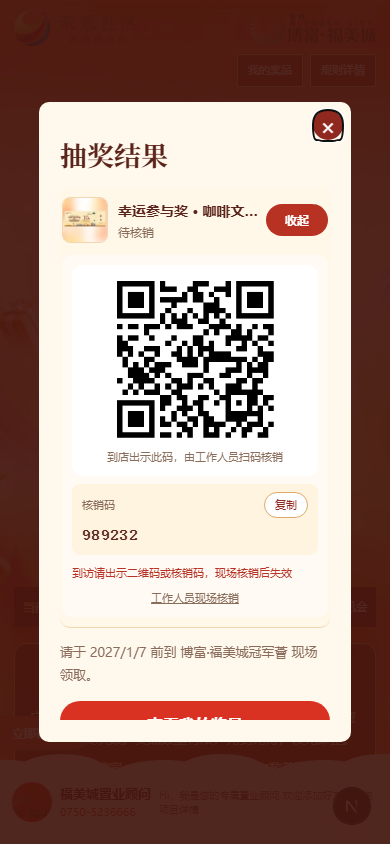
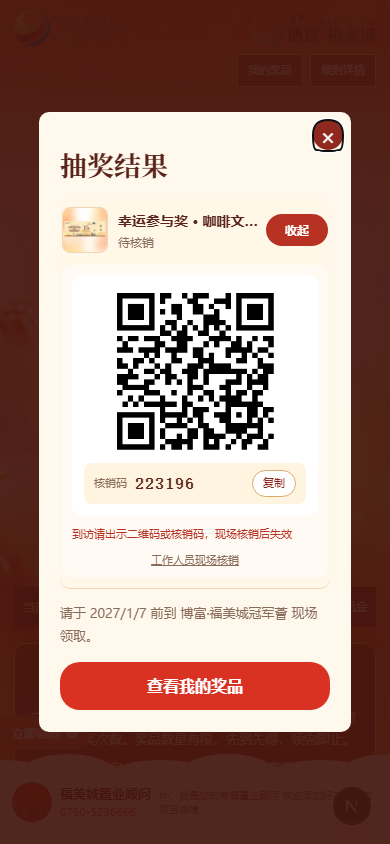
H5 核销展开区布局调整：核销码与二维码同卡，去掉二维码下方提示文字。
- RedeemQrCard 支持 children，核销码块移入二维码所在白色卡片
- 删除「到店出示此码，由工作人员扫码核销」文案
- 核销码标签、数值与复制按钮改为单行显示
- 同步替换我的奖品与抽奖结果两张文档截图

Changed region(s): [[0.0923, 0.2156, 0.8923, 0.8934], [0.0923, 0.1232, 0.9231, 0.3081]]

diff --git a/src/components/activity/RedeemQrCard.tsx b/src/components/activity/RedeemQrCard.tsx
@@ -1,16 +1,18 @@
 "use client";
 
-import { useEffect, useState } from "react";
+import { useEffect, useState, type ReactNode } from "react";
 import QRCode from "qrcode";
 import { buildRedeemAdminUrl } from "@/lib/redeem-code";
 
-/** 待核销二维码面板；展开由外层「二维码」按钮控制 */
+/** 待核销二维码面板；展开由外层「去核销」按钮控制 */
 export default function RedeemQrCard({
   code,
   open,
+  children,
 }: {
   code: string;
   open: boolean;
+  children?: ReactNode;
 }) {
   const [dataUrl, setDataUrl] = useState("");
   const [failed, setFailed] = useState(false);
@@ -44,12 +46,10 @@ export default function RedeemQrCard({
       ) : !dataUrl ? (
         <p className="redeem-tip">核销二维码生成中…</p>
       ) : (
-        <>
-          {/* eslint-disable-next-line @next/next/no-img-element */}
-          <img src={dataUrl} alt="核销二维码" />
-          <small>到店出示此码，由工作人员扫码核销</small>
-        </>
+        // eslint-disable-next-line @next/next/no-img-element
+        <img src={dataUrl} alt="核销二维码" />
       )}
+      {children}
     </div>
   );
 }

diff --git a/src/components/activity/ActivityPage.tsx b/src/components/activity/ActivityPage.tsx
@@ -565,14 +565,15 @@ export default function ActivityPage({
         </div>
         {canRedeem && expanded ? (
           <div className="redeem-detail">
-            <RedeemQrCard code={item.redeemCode} open />
-            <div className="redeem-code">
-              <small>核销码</small>
-              <b>{item.redeemCode}</b>
-              <button type="button" onClick={() => copyRedeemCode(item.redeemCode)}>
-                复制
-              </button>
-            </div>
+            <RedeemQrCard code={item.redeemCode} open>
+              <div className="redeem-code">
+                <small>核销码</small>
+                <b>{item.redeemCode}</b>
+                <button type="button" onClick={() => copyRedeemCode(item.redeemCode)}>
+                  复制
+                </button>
+              </div>
+            </RedeemQrCard>
             <p className="redeem-tip">到访请出示二维码或核销码，现场核销后失效</p>
             {redeemTarget === item.redeemCode ? (
               <form

diff --git a/src/app/globals.css b/src/app/globals.css
@@ -2395,8 +2395,34 @@ button.redeem-qr-toggle {
 }
 
 .redeem-detail .redeem-qr.is-open {
-  padding: 10px;
+  width: 100%;
+  padding: 12px;
   background: white;
+}
+
+/* 核销码与二维码同处一张卡片，单行展示 */
+.redeem-detail .redeem-code {
+  width: 100%;
+  flex-wrap: nowrap;
+  gap: 8px;
+  margin-top: 2px;
+  padding: 7px 10px;
+}
+
+.redeem-detail .redeem-code small,
+.redeem-detail .redeem-code b,
+.redeem-detail .redeem-code button {
+  order: 0;
+}
+
+.redeem-detail .redeem-code b {
+  flex: 1 1 auto;
+  font-size: 16px;
+  letter-spacing: 0.06em;
+}
+
+.redeem-detail .redeem-code button {
+  margin-left: auto;
 }
 
 .redeem-staff-link {
